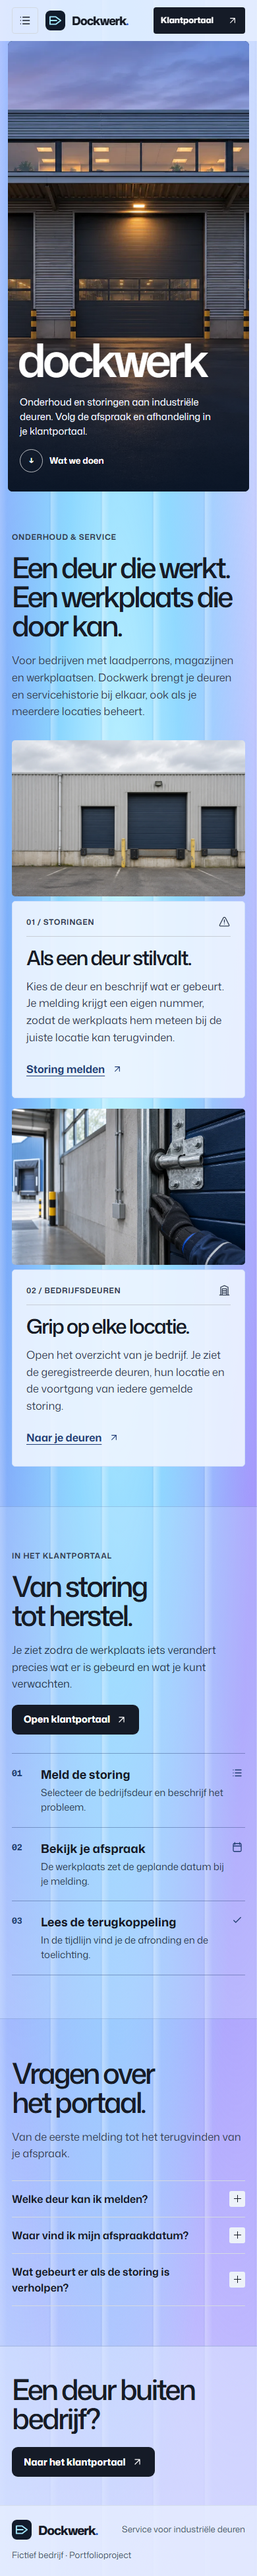
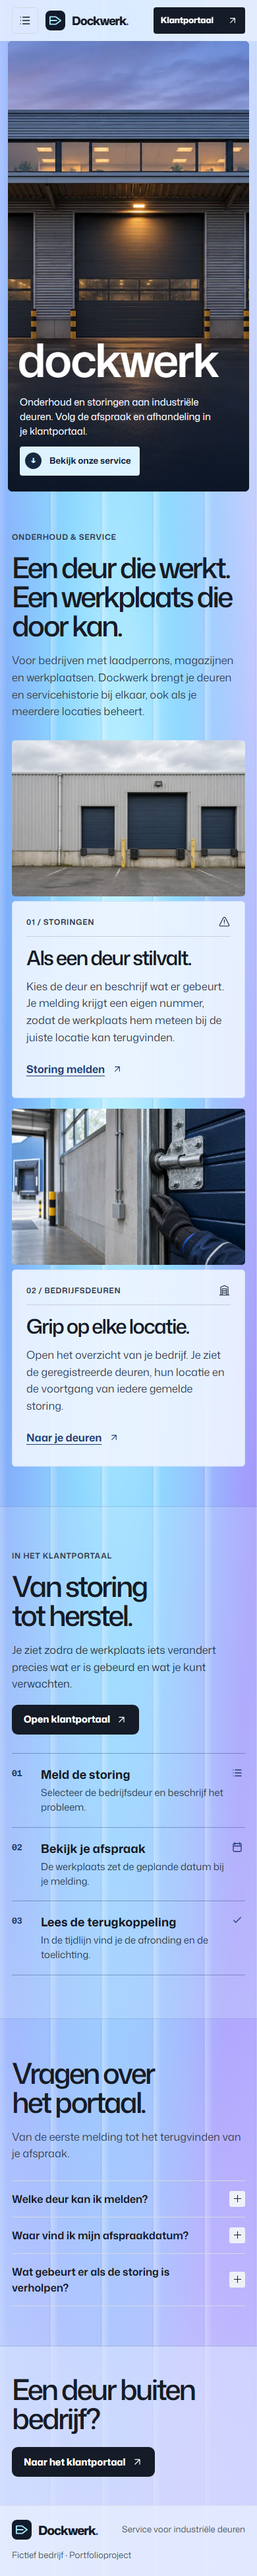
Open the Dockwerk homepage with a rolling shutter

Changed region(s): [[0.0615, 0.1243, 0.8308, 0.1864]]

diff --git a/resources/css/home.css b/resources/css/home.css
@@ -18,14 +18,27 @@
 .cover-picture, .cover-picture img, .cover::after { position: absolute; inset: 0; display: block; width: 100%; height: 100%; }
 .cover-picture { z-index: -2; }
 .cover-picture img { object-fit: cover; object-position: center 57%; }
+.cover-shutter {
+    position: absolute;
+    inset: 0 0 44%;
+    z-index: -1;
+    pointer-events: none;
+    transform: translateY(-100%);
+    border-bottom: 2px solid #b7d1e8;
+    background:
+        repeating-linear-gradient(180deg, #bfd2e620 0 1px, transparent 1px 21px, #030a1390 22px 24px),
+        linear-gradient(105deg, #101b2c, #26374c 54%, #162236);
+}
 .cover::after { content: ''; z-index: -1; background: linear-gradient(180deg, transparent 35%, #0b152b24 54%, #081426e8 100%); }
 .cover-content { padding-block: 80px 32px; }
-.cover h1 { font-weight: 575; line-height: .91; font-size: clamp(6rem, 15.65vw, 14.8rem); letter-spacing: -.073em; margin-left: -.05em; margin-block: 0 35px; }
+.cover h1 { font-weight: 575; line-height: .91; font-size: clamp(6rem, 15.65vw, 14.8rem); letter-spacing: -.04em; margin-left: -.05em; margin-block: 0 35px; }
 .cover-meta { display: flex; justify-content: space-between; align-items: end; gap: 24px; }
 .cover-meta p { max-width: 33ch; font-size: .96rem; line-height: 1.48; color: #f1f4ff; }
-.cover-jump { display: inline-flex; align-items: center; gap: 10px; min-height: 44px; white-space: nowrap; font-size: .83rem; font-weight: 640; }
-.cover-jump span { width: 35px; height: 35px; display: grid; place-items: center; border: 1px solid #ffffffb0; border-radius: 50%; transition: transform .25s, background .25s, color .25s; }
-.cover-jump:hover span, .cover-jump:focus-visible span { transform: translateY(3px); background: white; color: #151b27; }
+.cover-jump { display: inline-flex; align-items: center; gap: 12px; min-height: 44px; padding: 0 13px 0 8px; width: fit-content; border-radius: 4px; background: #ddf3ff; color: #121f34; white-space: nowrap; font-size: .83rem; font-weight: 680; transition: background .22s; }
+.cover-jump span { width: 25px; height: 25px; display: grid; place-items: center; border-radius: 50%; background: #17273e; color: #e9f6ff; transition: transform .22s; }
+.cover-jump:hover { background: #fff; }
+.cover-jump:focus-visible { outline-color: #ddf3ff; }
+.cover-jump:hover span, .cover-jump:focus-visible span { transform: translateY(2px); }
 .studio-label, .sheet-top { font-size: .73rem; font-weight: 680; color: var(--studio-muted); letter-spacing: .06em; text-transform: uppercase; }
 .service-section, .faq-section { padding-block: clamp(60px, 8vw, 119px); scroll-margin-top: 85px; }
 .service-intro, .faq-section { display: grid; grid-template-columns: 1fr 1.2fr; gap: 38px; align-items: start; }

diff --git a/resources/js/home-motion.js b/resources/js/home-motion.js
@@ -9,13 +9,15 @@ export function startHomeMotion() {
     motion.add('(prefers-reduced-motion: no-preference)', () => {
         const cover = document.querySelector('.cover');
         const wordmark = cover.querySelector('h1');
+        const shutter = cover.querySelector('.cover-shutter');
         const photograph = cover.querySelector('.hero-photo');
         const coverPicture = cover.querySelector('.cover-picture');
         const backdropGlow = document.querySelector('.glacier-glow');
 
         gsap.timeline({ defaults: { ease: 'power3.out' } })
+            .fromTo(shutter, { yPercent: -15, y: 0 }, { yPercent: -100, y: 0, ease: 'power2.inOut', duration: 1.18, clearProps: 'transform' }, 0)
             .from(photograph, { scale: 1.11, duration: 1.55 }, 0)
-            .from(wordmark, { y: 38, opacity: 0.92, duration: 1 }, 0.09)
+            .from(wordmark, { y: 38, opacity: 0.92, duration: 1 }, 0.17)
             .from('.cover-meta', { y: 17, duration: 0.8 }, 0.27);
 
         gsap.to(coverPicture, {

diff --git a/resources/views/home.blade.php b/resources/views/home.blade.php
@@ -6,10 +6,11 @@
             <source media="(max-width: 620px)" srcset="{{ asset('images/dockwerk-avond-mobiel.webp') }}">
             <img class="hero-photo" src="{{ asset('images/dockwerk-avond.webp') }}" alt="" fetchpriority="high" width="1536" height="1024">
         </picture>
+        <div class="cover-shutter" aria-hidden="true"></div>
         <div class="shell cover-content">
             <h1 id="hero-title">dockwerk<span class="sr-only"> · Service voor bedrijfsdeuren</span></h1>
             <div class="cover-meta">
-                <a class="cover-jump" href="#onderhoud" aria-label="Bekijk wat we doen"><span aria-hidden="true">↓</span> Wat we doen</a>
+                <a class="cover-jump" href="#onderhoud"><span aria-hidden="true">↓</span> Bekijk onze service</a>
                 <p>Onderhoud en storingen aan industriële deuren. Volg de afspraak en afhandeling in je klantportaal.</p>
             </div>
         </div>

diff --git a/DESIGN.md b/DESIGN.md
@@ -8,7 +8,7 @@ Glacier is de doorlopende achtergrond van de homepage, het inlogscherm, het klan
 
 ## Beweging
 
-GSAP laat de cover bij openen van dichtbij naar de ruststand bewegen. Bij scrollen verschuift de foto binnen het kader, zodat de eerste inhoud eronder tevoorschijn komt. In de rest van de homepage schuiven specifieke inhoudsblokken licht in beeld. De gloed van Glacier beweegt mee met de scroll. Lenis geeft een precieze aanwijzer vloeiende scroll, en op touch blijft de scroll native. Lenis wordt alleen geladen voor precies aanwijzen. Bij een voorkeur voor minder beweging blijven de animatiebundels bij de eerste weergave buiten de download. Als de voorkeur tijdens het bezoek verandert, past de site de JavaScript-animaties en scrollverzachting aan.
+Vlak na het openen schuift een stalen roldeur omhoog en komt de hele avondfoto in beeld. De roldeur bestaat uit CSS en beweegt mee met de bestaande GSAP-tijdlijn. De foto, tekst en serviceknop zijn direct beschikbaar. Bij scrollen verschuift de foto binnen het kader. In de rest van de homepage schuiven specifieke inhoudsblokken licht in beeld en beweegt de gloed van Glacier mee. Lenis wordt alleen geladen voor precies aanwijzen. Op een aanraakscherm blijft de scroll native. Bij een voorkeur voor minder beweging blijven de animatiebundels bij de eerste weergave buiten de download. Als de voorkeur tijdens het bezoek verandert, past de site de JavaScript-animaties en scrollverzachting aan.
 
 De FAQ en het mobiele menu gebruiken native HTML-disclosures. De foto van het laadperron heeft een afzonderlijke mobiele uitsnede. Mona Sans en de drie gegenereerde projectfoto’s staan lokaal in de app.
 

diff --git a/docs/VOORTGANG.md b/docs/VOORTGANG.md
@@ -39,3 +39,9 @@ De website is als lokale portfoliodemo gebouwd. `DOCKWERK_DEMO` staat standaard 
 Op verzoek van Ahmad loopt Glacier van de navigatie tot de voettekst. De gedeelde CSS-laag staat achter de homepage, het inlogscherm, het klantportaal en de werkplaats. De openingsfoto heeft ruimte langs de randen. Formulieren en tabellen staan op lichte vlakken.
 
 De Vite-build, 9 PHP-tests (41 assertions), Pint en 2 Chromium-tests slaagden. Op de homepage is de laag op desktop en mobiel even breed en hoog als de hele pagina. Inloggen, het klantportaal en de werkplaats zijn ook in Chromium bekeken. De bijgewerkte schermafbeeldingen staan in de [README](../README.md#verder-lezen).
+
+## Variant met roldeur
+
+Ahmad vroeg om de Glacier-versie te bewaren en een opvallendere variant te maken. De tag `glacier-v1` wijst naar de bewaarde versie. Op `codex/dockwerk-motion` opent een geanimeerde stalen roldeur over de avondfoto en is de serviceknop ijsblauw.
+
+`npm run build`, `php artisan test --compact` (9 tests, 41 assertions), Pint en `npm run test:browser` (2 tests) slaagden. De roldeur is in Chromium op desktop en in mobiele aanraakemulatie gecontroleerd. De foto en serviceknop werken ook met minder beweging en met JavaScript uitgeschakeld.
